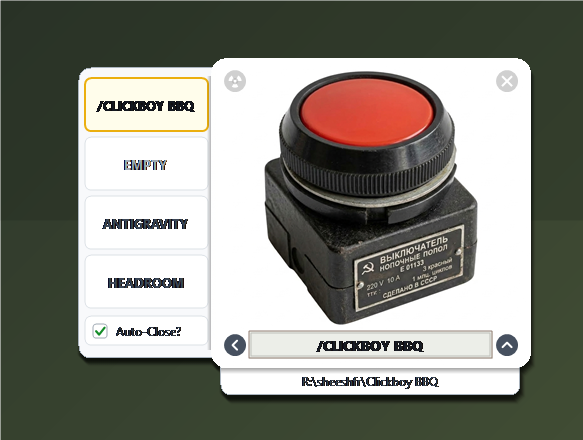
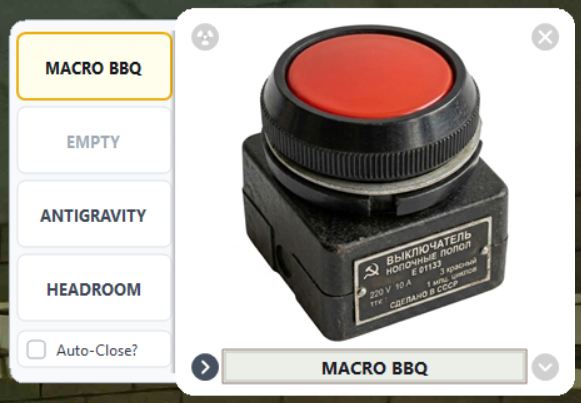
docs: update README screenshot with active presets drawer UI

diff --git a/README.md b/README.md
@@ -1,5 +1,5 @@
 <div align="center">
-  <img src="screenshot.png" alt="AZ-5 Button" width="380" />
+  <img src="screenshot.png" alt="AZ-5 Button" width="440" />
   <h1>AZ-5 Button</h1>
 </div>
 
